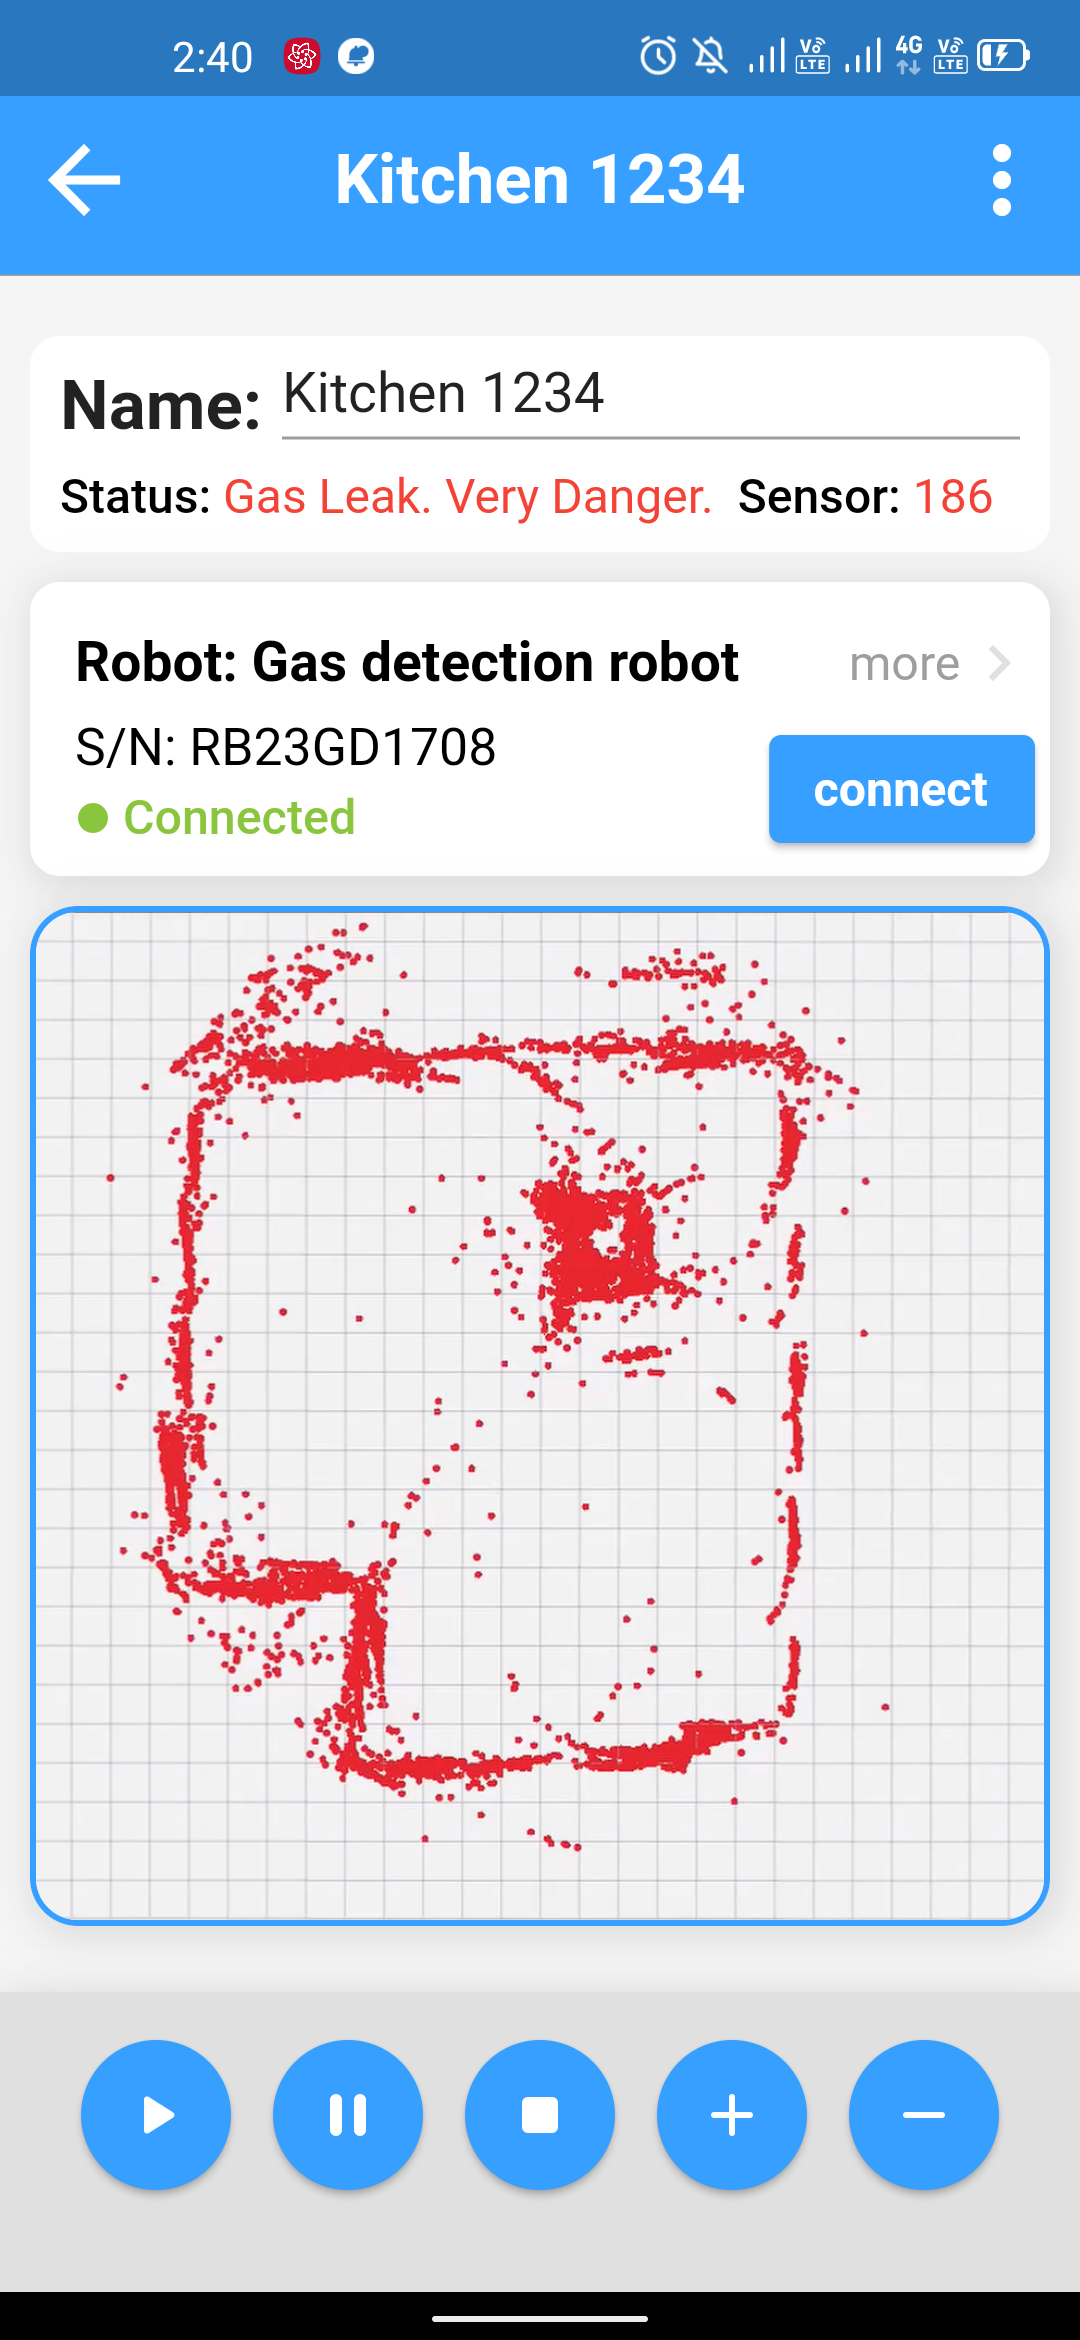
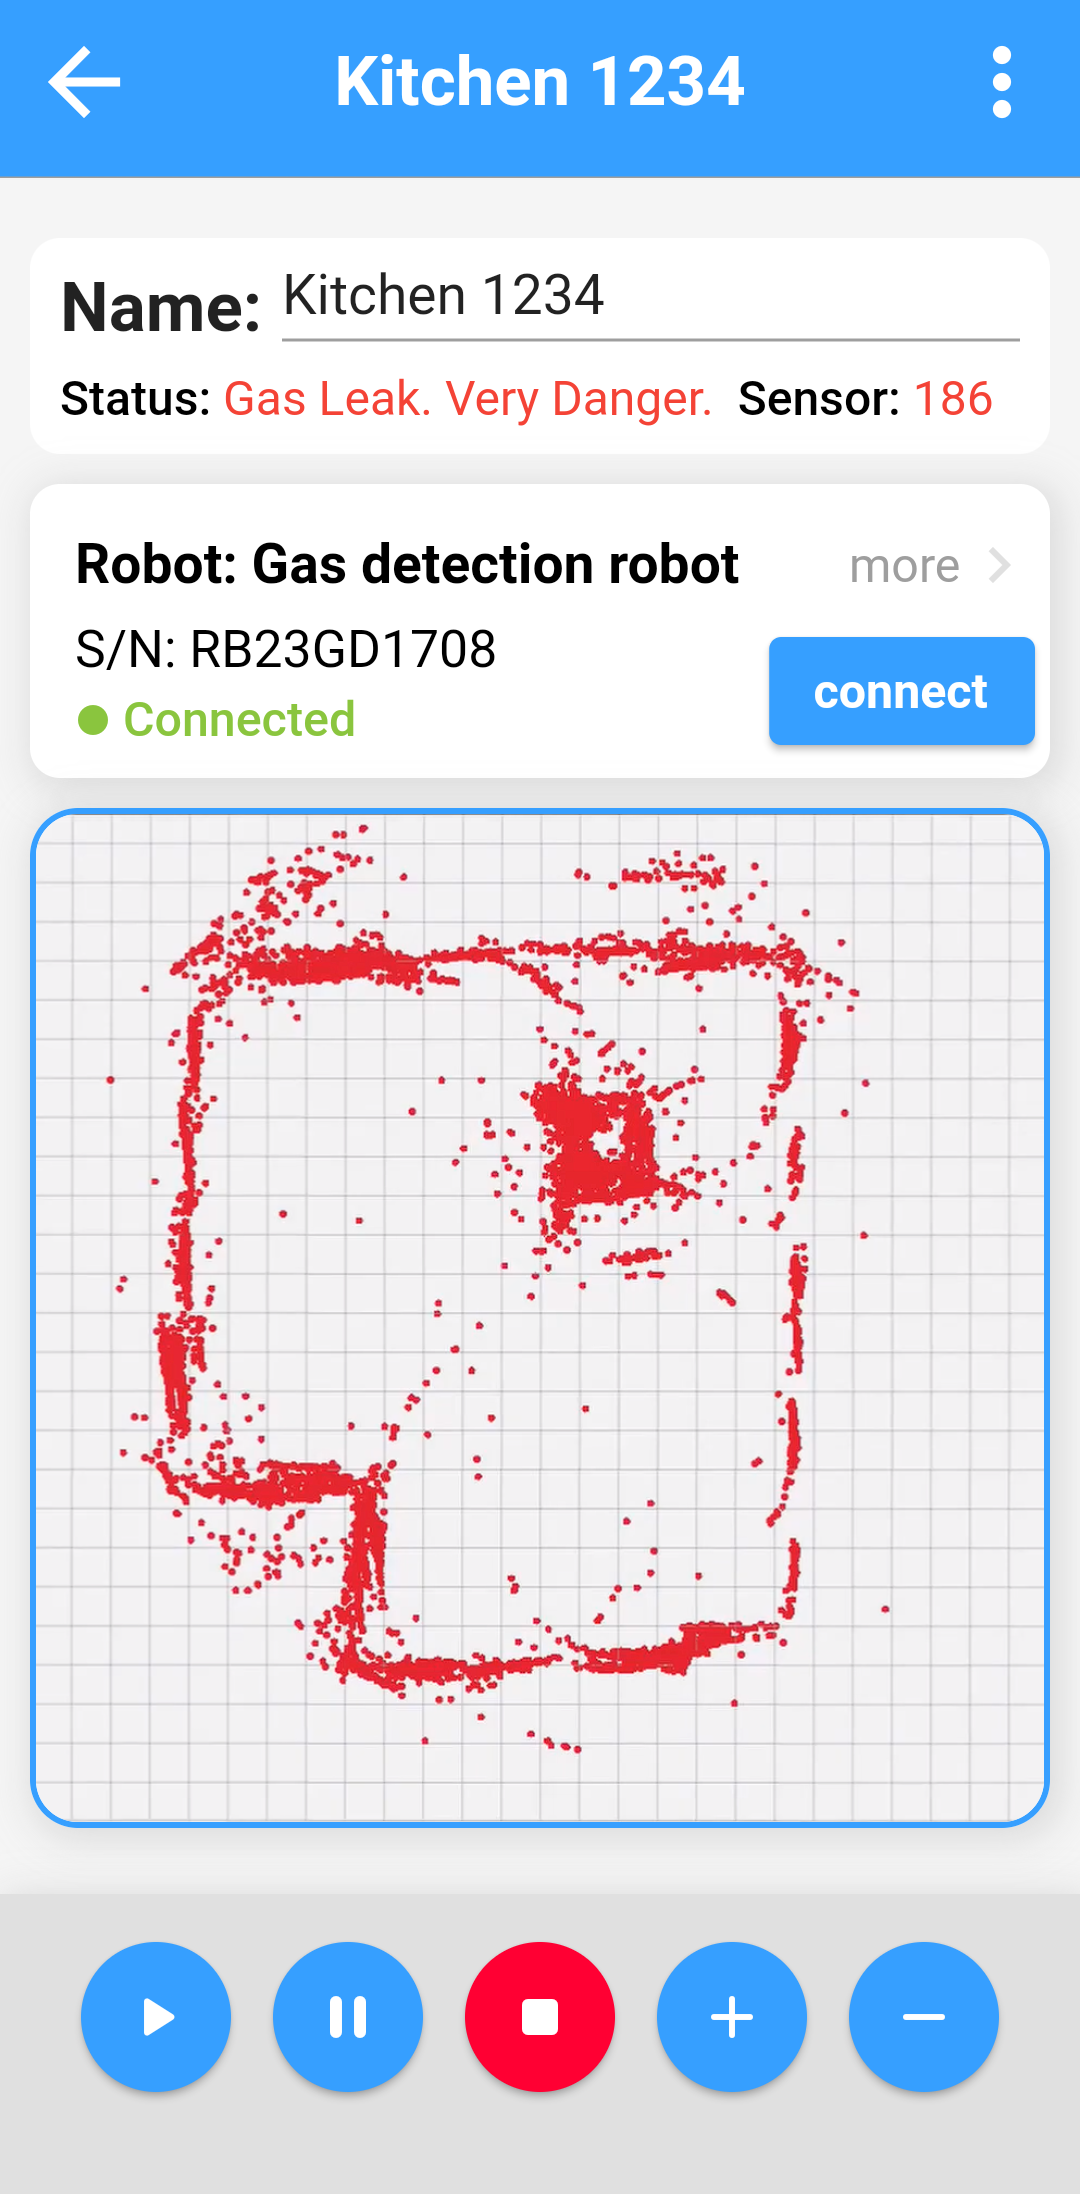
update: app flutter load map image

diff --git a/gas_detek/lib/screens/room_detail_screen.dart b/gas_detek/lib/screens/room_detail_screen.dart
@@ -183,8 +183,7 @@ class _RoomDetailState extends State<RoomDetail> {
         setState(() {
           _isConnectA2D = false;
         });
-      }
-      else {
+      } else {
         setState(() {
           _isEnableControlDevice = true;
         });
@@ -313,6 +312,7 @@ class _RoomDetailState extends State<RoomDetail> {
   Widget build(BuildContext context) {
     double maxWidth = MediaQuery.of(context).size.width;
     // String map2dUrl = 'https://raspberrypi.vn/wp-content/uploads/2016/10/raspberry_pi_3.jpg';
+    // print(_map2dUrl);
 
     return WillPopScope(
       onWillPop: () async {
@@ -645,21 +645,18 @@ class _RoomDetailState extends State<RoomDetail> {
                   ),
                   child: ClipRRect(
                     borderRadius: BorderRadius.circular(14.0),
-                    child: _map2dUrl.isEmpty ? const Text("No Image") :
-                    Image.network(_map2dUrl,
-                        fit: BoxFit.cover, key: const ValueKey(123),
-                        errorBuilder: (context, error, stackTrace) {
-                      return Image.asset(
-                        'assets/images/icon_404_not_found.png',
-                        fit: BoxFit.contain,
-                      );
-                      // return const Center(
-                      //   child: Text(
-                      //     "Loading image map ...",
-                      //     style: TextStyle(fontSize: 24.0),
-                      //   ),
-                      // );
-                    }),
+                    child: _room.map2dUrl == null
+                        ? const Center(
+                            child: Text("Not have image yet", style: TextStyle(fontSize: 24.0))
+                          )
+                        : Image.network(_map2dUrl,
+                            fit: BoxFit.cover, key: const ValueKey(123),
+                            errorBuilder: (context, error, stackTrace) {
+                            return Image.asset(
+                              'assets/images/icon_404_not_found.png',
+                              fit: BoxFit.contain,
+                            );
+                          }),
                   ),
                 ),
                 const SizedBox(height: 10.0),
